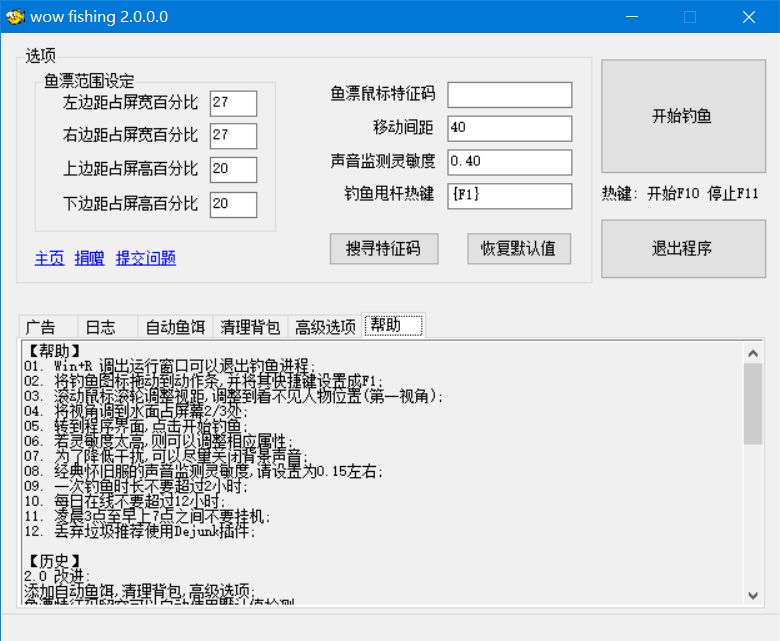
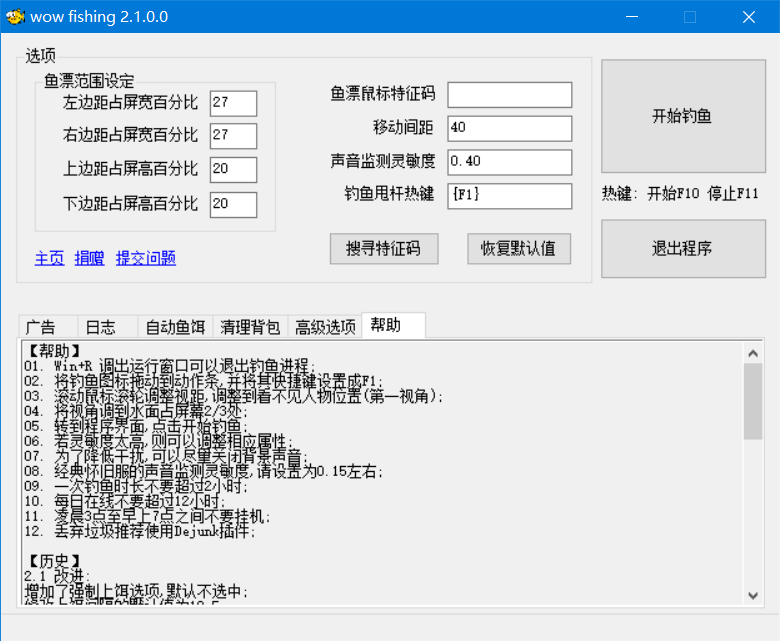
更新了说明文件和软件截图;

diff --git a/README.md b/README.md
@@ -15,6 +15,11 @@
 
 * [.Net Framework 4.0 下载地址](https://www.microsoft.com/zh-cn/download/details.aspx?id=17718);
 
+#### VBX脚本的使用
+
+* 运行脚本需要系统已经安装了 [NScript](https://github.com/milaoshu1020/NScript)([下载地址](https://github.com/milaoshu1020/NScript/releases));
+* 安装完毕以后,双击VBX脚本即可运行;
+
 #### 捐赠
 
 * [捐赠地址](DONATE.md)
